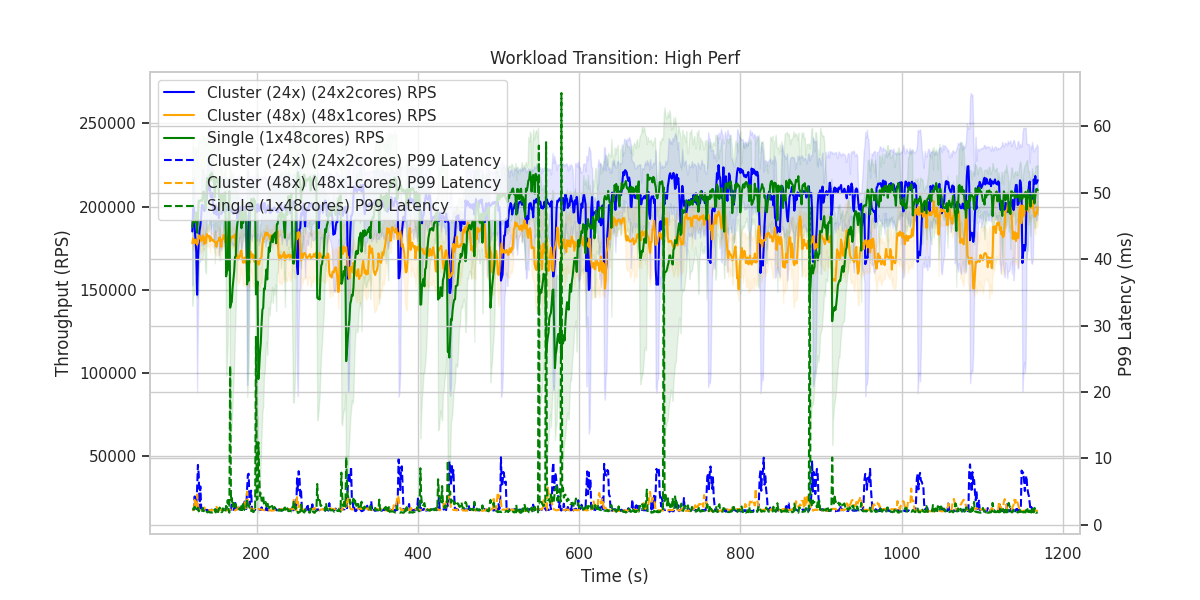
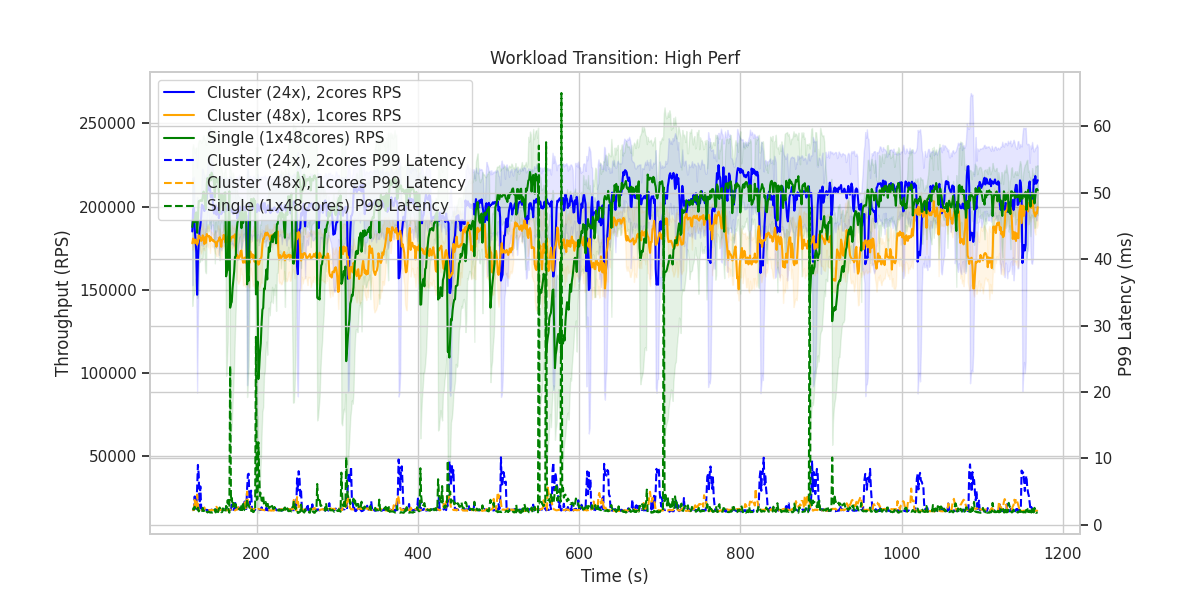
update analysis script

Changed region(s): [[0.2467, 0.24, 0.4317, 0.39], [0.2467, 0.12, 0.37, 0.21]]

diff --git a/analyze.py b/analyze.py
@@ -389,9 +389,8 @@ def generate_plots(results, output_dir=OUTPUT_DIR):
     categories = sorted(list(set(k[0] for k in results.keys())))
 
     def get_plot_config_label(label, data):
-        if str(data["node_count"]) in label:
-            return f"{label}, {data['cores_str']}"
-        return f"{label} ({data['node_count']}x{data['cores_str']})"
+        base_label = label.split(" (")[0]
+        return f"{base_label} ({data['node_count']}x{data['cores_str']})"
 
     for cat in categories:
         cat_data = {k: v for k, v in results.items() if k[0] == cat}
